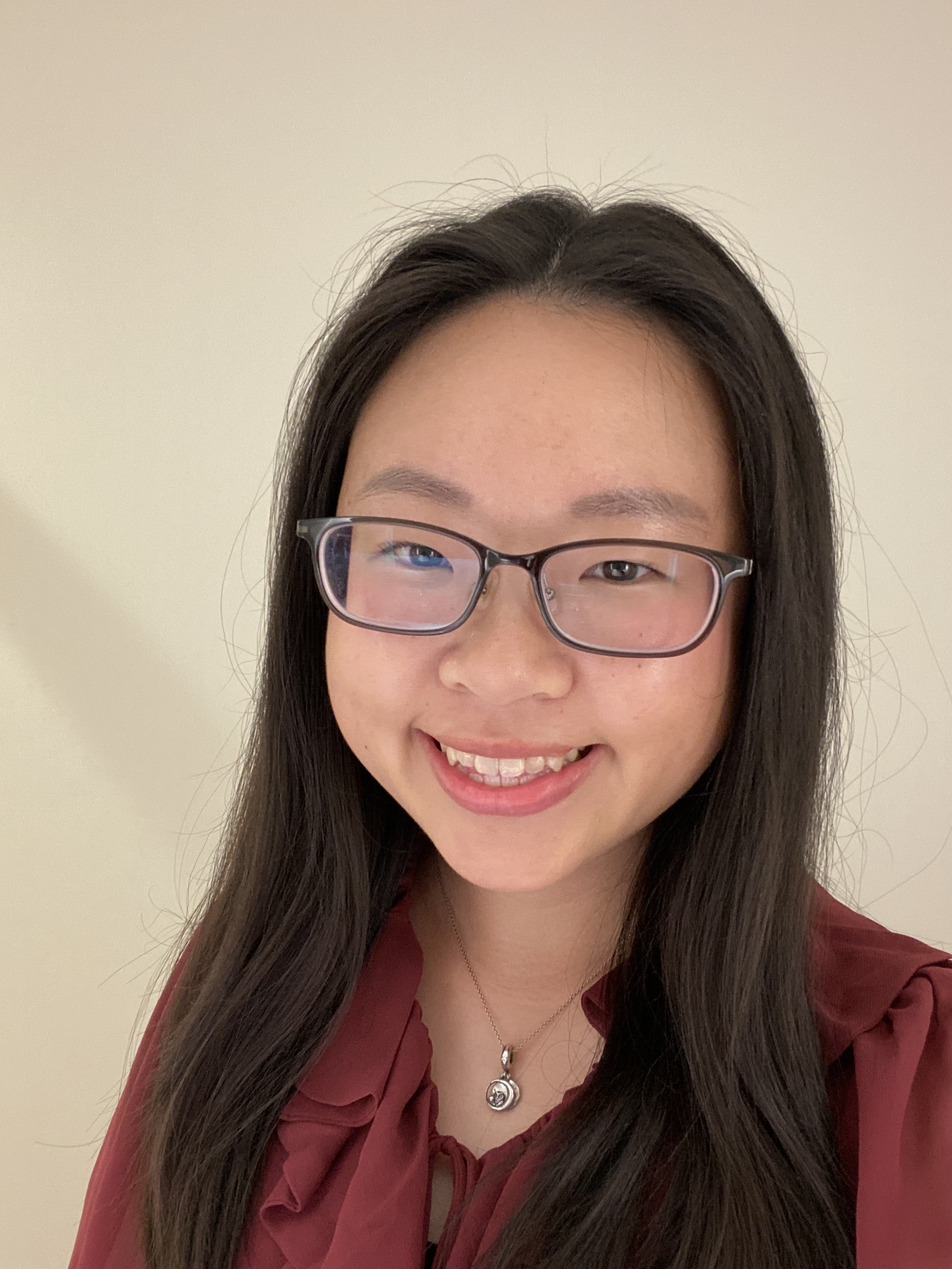
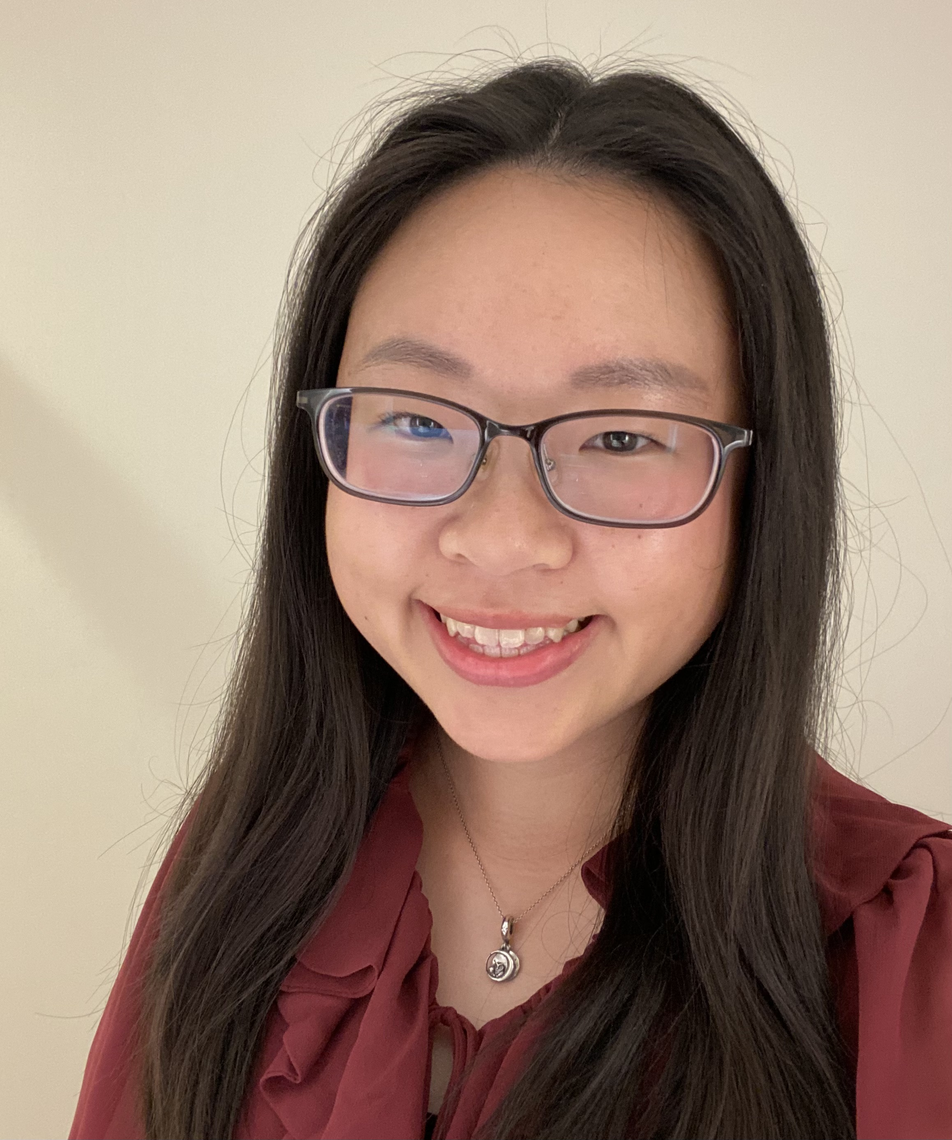
Bug fix link, change pic, testing top bar.

Changed region(s): [[0.1244, 0.031, 1.0, 0.9614], [0.715, 0.8063, 0.8705, 0.9614], [0.0933, 0.8684, 0.1244, 0.9304]]

diff --git a/_pages/teaching.md b/_pages/teaching.md
@@ -3,7 +3,7 @@ layout: page
 permalink: /teaching/
 title: teaching
 description: Course materials, schedules, and resources for classes taught.
-nav: true
+nav: false
 nav_order: 6
 calendar: true
 ---
